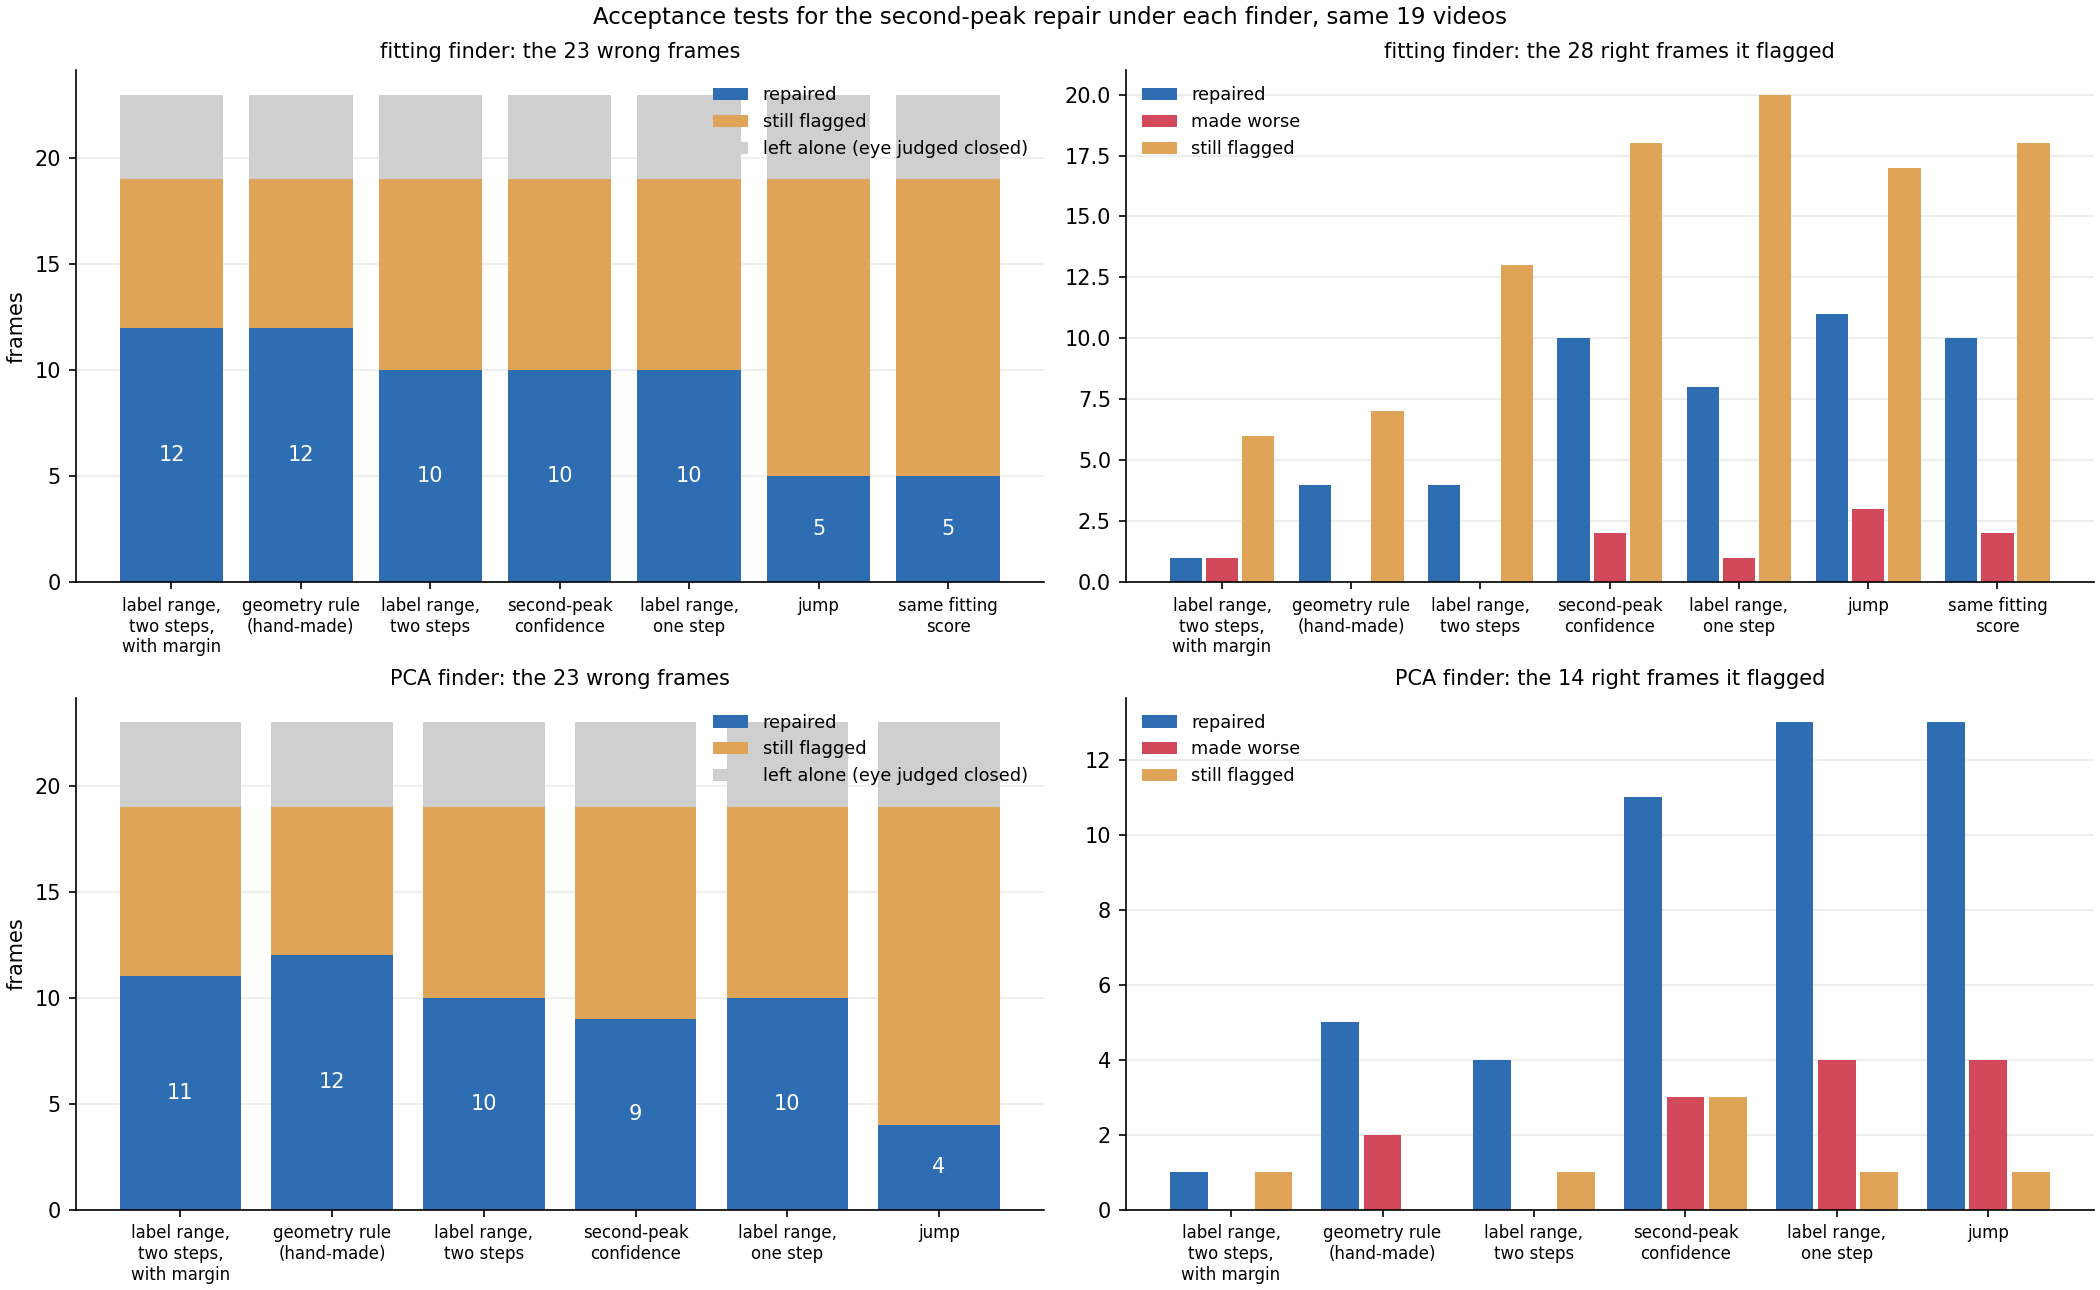
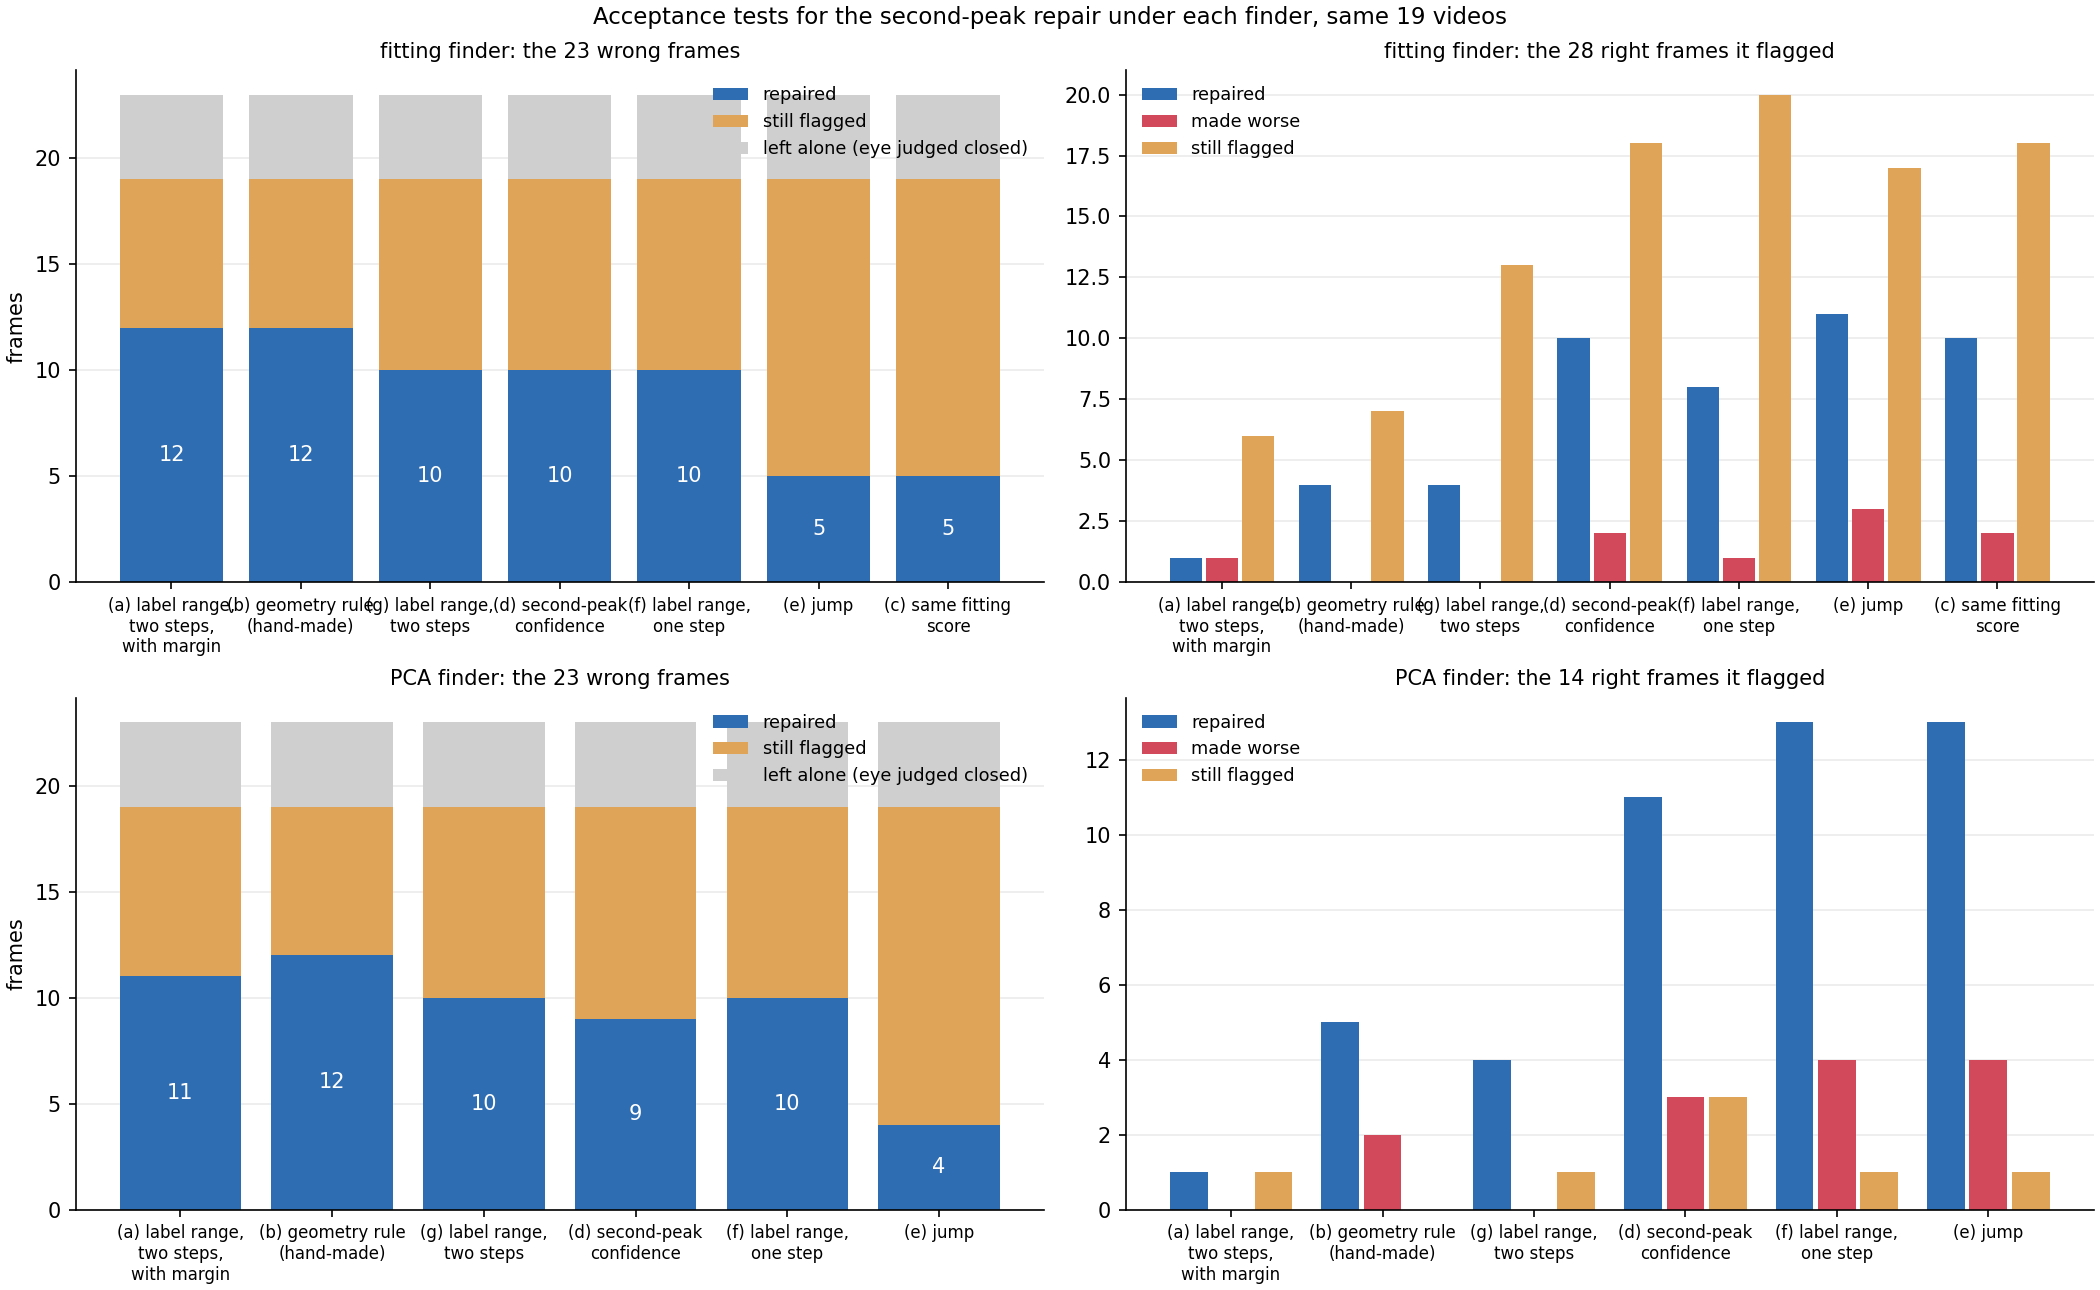
Figure 9-8: acceptance tests labelled (a)-(g) as in the text

diff --git a/report/index.html b/report/index.html
@@ -78,7 +78,7 @@ math[display="block"]{margin:10px 0 6px;text-align:left;overflow-x:auto;max-widt
 
 <header>
   <h1><span lang="zh">小鼠眼睛关键点追踪：做了什么，结果是什么</span><span lang="en">Mouse eye keypoint tracking: what was done and what came out</span></h1>
-  <p class="muted small">Zhiheng Li (University of Minnesota), Kaiwen Sheng (Stanford) · <span lang="zh">页面生成时间</span><span lang="en">page built</span> 2026-10-31 16:47 · <a href="https://github.com/ZhihengLi0/mouse-behavior-tracking">GitHub: ZhihengLi0/mouse-behavior-tracking</a></p>
+  <p class="muted small">Zhiheng Li (University of Minnesota), Kaiwen Sheng (Stanford) · <span lang="zh">页面生成时间</span><span lang="en">page built</span> 2026-10-31 16:50 · <a href="https://github.com/ZhihengLi0/mouse-behavior-tracking">GitHub: ZhihengLi0/mouse-behavior-tracking</a></p>
 
   <div class="text" lang="zh">
     <p><b>任务：</b>用 DeepLabCut 在小鼠眼睛视频的每一帧上找 8 个点：瞳孔上、下、左、右，上眼睑、下眼睑，鼻侧眼角、颞侧眼角。由这 8 个点得到瞳孔大小、眼睛睁开程度和眨眼，之后与脑记录对齐。</p>
@@ -1260,8 +1260,8 @@ math[display="block"]{margin:10px 0 6px;text-align:left;overflow-x:auto;max-widt
   </figure>
   <figure>
     <div class="figbox wide"><img src="assets/fig_acceptance_by_finder.png" alt="Acceptance tests under each finder: outcome on the 23 wrong frames and on the flagged right frames"></div>
-    <figcaption lang="zh"><span class="tag">图 9-8：</span>验收标准的比较，上排 fitting 找出的帧，下排 PCA 找出的帧。左：23 帧错帧里修好的（蓝）、仍标出的（橙）、判为闭眼未动的（灰）。右：被标出的对帧里被修的、修坏的、仍标出的。</figcaption>
-    <figcaption lang="en"><span class="tag">Figure 9-8:</span>The acceptance tests, top row on the frames fitting flags, bottom row on the frames the PCA flags. Left: of the 23 wrong frames, repaired (blue), still flagged (orange), left alone as closed-eye (grey). Right: of the flagged right frames, repaired, made worse, still flagged.</figcaption>
+    <figcaption lang="zh"><span class="tag">图 9-8：</span>验收标准的比较，(a)–(g) 对应上文；上排 fitting 找出的帧，下排 PCA 找出的帧。左：23 帧错帧里修好的（蓝）、仍标出的（橙）、判为闭眼未动的（灰）。右：被标出的对帧里被修的、修坏的、仍标出的。</figcaption>
+    <figcaption lang="en"><span class="tag">Figure 9-8:</span>The acceptance tests, (a)–(g) as in the text; top row on the frames fitting flags, bottom row on the frames the PCA flags. Left: of the 23 wrong frames, repaired (blue), still flagged (orange), left alone as closed-eye (grey). Right: of the flagged right frames, repaired, made worse, still flagged.</figcaption>
   </figure>
   <div class="text" lang="zh">
     <p><b>换找法，修法和验收不变。</b>fitting、PCA、两者任一，三种找法各在 19 个视频上跑一遍（图 9-9）。真值帧上三者几乎一样：23 帧错帧都找全，分别修好 12、11、12 帧，对的帧变差 1、0、1 帧。整段视频上 PCA 标出 2.4% 的帧、修好 0.72%，fitting 标出 3.8%、修好 0.78%，并集标出 4.2%、修好 0.80%。并集多标出的帧几乎都修不了：PCA 单独找到的错帧，第二峰过不了验收，留在"标出未修"里。所以找帧的进步没有变成修复的进步，这类帧要另找修法。</p>

diff --git a/report/template.html b/report/template.html
@@ -1152,8 +1152,8 @@ math[display="block"]{margin:10px 0 6px;text-align:left;overflow-x:auto;max-widt
   </figure>
   <figure>
     <div class="figbox wide"><img src="assets/fig_acceptance_by_finder.png" alt="Acceptance tests under each finder: outcome on the 23 wrong frames and on the flagged right frames"></div>
-    <figcaption lang="zh"><span class="tag">图 9-8：</span>验收标准的比较，上排 fitting 找出的帧，下排 PCA 找出的帧。左：23 帧错帧里修好的（蓝）、仍标出的（橙）、判为闭眼未动的（灰）。右：被标出的对帧里被修的、修坏的、仍标出的。</figcaption>
-    <figcaption lang="en"><span class="tag">Figure 9-8:</span>The acceptance tests, top row on the frames fitting flags, bottom row on the frames the PCA flags. Left: of the 23 wrong frames, repaired (blue), still flagged (orange), left alone as closed-eye (grey). Right: of the flagged right frames, repaired, made worse, still flagged.</figcaption>
+    <figcaption lang="zh"><span class="tag">图 9-8：</span>验收标准的比较，(a)–(g) 对应上文；上排 fitting 找出的帧，下排 PCA 找出的帧。左：23 帧错帧里修好的（蓝）、仍标出的（橙）、判为闭眼未动的（灰）。右：被标出的对帧里被修的、修坏的、仍标出的。</figcaption>
+    <figcaption lang="en"><span class="tag">Figure 9-8:</span>The acceptance tests, (a)–(g) as in the text; top row on the frames fitting flags, bottom row on the frames the PCA flags. Left: of the 23 wrong frames, repaired (blue), still flagged (orange), left alone as closed-eye (grey). Right: of the flagged right frames, repaired, made worse, still flagged.</figcaption>
   </figure>
   <div class="text" lang="zh">
     <p><b>换找法，修法和验收不变。</b>fitting、PCA、两者任一，三种找法各在 19 个视频上跑一遍（图 9-9）。真值帧上三者几乎一样：23 帧错帧都找全，分别修好 12、11、12 帧，对的帧变差 1、0、1 帧。整段视频上 PCA 标出 2.4% 的帧、修好 0.72%，fitting 标出 3.8%、修好 0.78%，并集标出 4.2%、修好 0.80%。并集多标出的帧几乎都修不了：PCA 单独找到的错帧，第二峰过不了验收，留在"标出未修"里。所以找帧的进步没有变成修复的进步，这类帧要另找修法。</p>

diff --git a/report/index_en.html b/report/index_en.html
@@ -75,7 +75,7 @@ math[display="block"]{margin:10px 0 6px;text-align:left;overflow-x:auto;max-widt
 
 <header>
   <h1><span lang="en">Mouse eye keypoint tracking: what was done and what came out</span></h1>
-  <p class="muted small">Zhiheng Li (University of Minnesota), Kaiwen Sheng (Stanford) · <span lang="en">page built</span> 2026-10-31 16:47 · <a href="https://github.com/ZhihengLi0/mouse-behavior-tracking">GitHub: ZhihengLi0/mouse-behavior-tracking</a></p>
+  <p class="muted small">Zhiheng Li (University of Minnesota), Kaiwen Sheng (Stanford) · <span lang="en">page built</span> 2026-10-31 16:50 · <a href="https://github.com/ZhihengLi0/mouse-behavior-tracking">GitHub: ZhihengLi0/mouse-behavior-tracking</a></p>
 
   
   <div class="text" lang="en">
@@ -957,7 +957,7 @@ math[display="block"]{margin:10px 0 6px;text-align:left;overflow-x:auto;max-widt
   <figure>
     <div class="figbox wide"><img src="assets/fig_acceptance_by_finder.png" alt="Acceptance tests under each finder: outcome on the 23 wrong frames and on the flagged right frames"></div>
     
-    <figcaption lang="en"><span class="tag">Figure 9-8:</span>The acceptance tests, top row on the frames fitting flags, bottom row on the frames the PCA flags. Left: of the 23 wrong frames, repaired (blue), still flagged (orange), left alone as closed-eye (grey). Right: of the flagged right frames, repaired, made worse, still flagged.</figcaption>
+    <figcaption lang="en"><span class="tag">Figure 9-8:</span>The acceptance tests, (a)–(g) as in the text; top row on the frames fitting flags, bottom row on the frames the PCA flags. Left: of the 23 wrong frames, repaired (blue), still flagged (orange), left alone as closed-eye (grey). Right: of the flagged right frames, repaired, made worse, still flagged.</figcaption>
   </figure>
   
   <div class="text" lang="en">

diff --git a/v2_new_pupil_top_video_scaling/scripts/acceptance_by_finder.py b/v2_new_pupil_top_video_scaling/scripts/acceptance_by_finder.py
@@ -22,8 +22,8 @@ from second_peak_repair import RES  # noqa: E402
 FAR = RES / "flag_and_repair"
 OUT = FAR / "all_videos"
 ORDER = ["labelregion", "geometry", "labelregion0", "conf", "labelgeo", "jump", "fit"]
-NAMES = {"geometry": "geometry rule\n(hand-made)", "fit": "same fitting\nscore", "conf": "second-peak\nconfidence", "jump": "jump", "labelgeo": "label range,\none step",
-         "labelregion0": "label range,\ntwo steps", "labelregion": "label range,\ntwo steps,\nwith margin"}
+NAMES = {"geometry": "(b) geometry rule\n(hand-made)", "fit": "(c) same fitting\nscore", "conf": "(d) second-peak\nconfidence", "jump": "(e) jump", "labelgeo": "(f) label range,\none step",
+         "labelregion0": "(g) label range,\ntwo steps", "labelregion": "(a) label range,\ntwo steps,\nwith margin"}
 FINDERS = [("fit", "fitting finder", "videoNN_{a}"), ("pca", "PCA finder", "videoNN_pca_{a}")]
 
 
